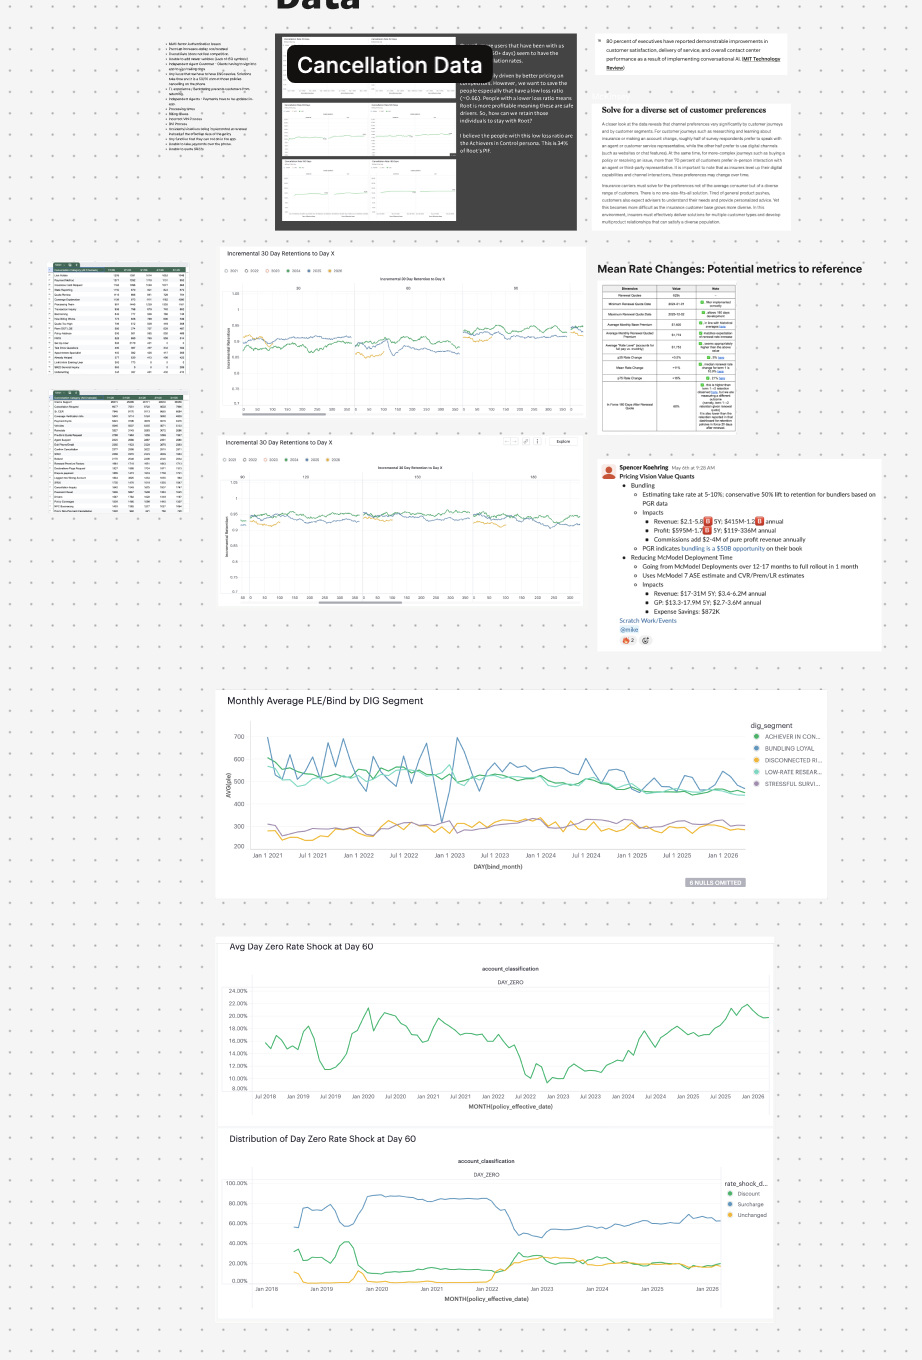
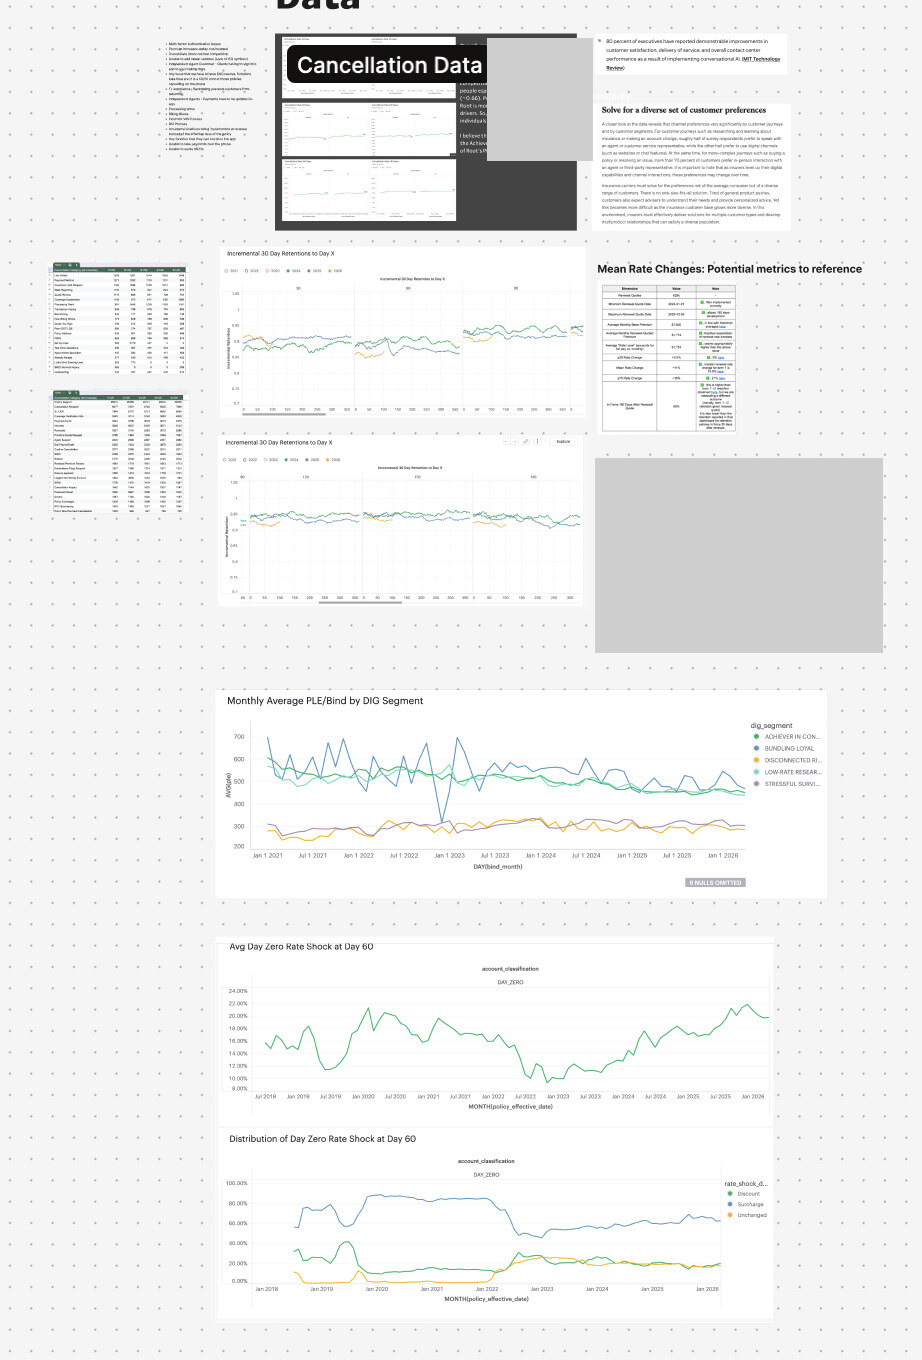
Redact Root data board Slack message, USDA consent names and heuristic reviewer names/notes
Claude-Session: https://claude.ai/code/session_01GwEFzAyK7Ej1XsMyYeW86X

Changed region(s): [[0.6377, 0.3397, 0.9718, 0.4941], [0.5163, 0.0309, 0.6681, 0.1235]]

diff --git a/js/data.js b/js/data.js
@@ -750,9 +750,9 @@ window.PORTFOLIO = {
         image: [
           { src: "assets/img/usda-methods.jpg", fit: "full", caption: "Five methods, and the rule that a finding had to appear in at least three." },
           { src: "assets/img/usda-interview-guide.png", fit: "tall", caption: "Interview guide: open-ended questions on search workflow, comprehension and collaboration." },
-          { src: "assets/img/usda-consent.png", fit: "tall", caption: "Interview consent form (contact details removed): voluntary, recorded, anonymized quotes." },
+          { src: "assets/img/usda-consent.png", fit: "tall", caption: "Interview consent form (names and contact details removed): voluntary, recorded, anonymized quotes." },
           { src: "assets/img/usda-survey.jpg", fit: "full", caption: "Survey design: the Findability section of the piloted survey." },
-          { src: "assets/img/usda-heuristic-sheet.jpg", fit: "full", caption: "Heuristic evaluation workbook: each issue logged with the heuristic violated, severity and a recommendation." },
+          { src: "assets/img/usda-heuristic-sheet.jpg", fit: "full", caption: "Heuristic evaluation workbook (reviewer names and notes removed): each issue logged with the heuristic violated, severity and a recommendation." },
           { src: "assets/img/usda-annotated.jpg", fit: "full", caption: "Heuristic evaluation: search rigidity, scattered help and no breadcrumbs, marked on the portal." },
           { src: "assets/img/usda-interaction.jpg", fit: "full", caption: "Interaction map: core search and organization, pre-filtering, and mobile layout." },
           { src: "assets/img/usda-testmethods.jpg", fit: "full", caption: "Usability test design: three tasks and a debrief." }
